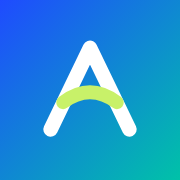
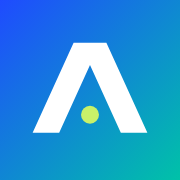
Новый логотип Aweron: знак «Схождение», надпись в контурах
Знак: Λ на пропорциях буквы A шрифта Unbounded, перекладина заменена
точкой-искрой; плитка в градиенте brand → brand-2. Надпись «Aweron»
переведена в контуры из Unbounded 700, точка в A повторяет знак.
Добавлены горизонтальные версии (светлая/тёмная), цветной и моно знак,
favicon с тёмной темой, apple-touch-icon, logo-512 для JSON-LD,
3 альтернативные концепции для сравнения. Встроено в шапку, футер,
privacy и чип схемы; hover-анимация только у логотипа.

Claude-Session: https://claude.ai/code/session_01M5dFgXpyGHs7NWxp8WCykq

Changed region(s): [[0.1667, 0.2222, 0.8333, 0.7778], [0.4722, 0.3611, 0.5278, 0.4167]]

diff --git a/index.html b/index.html
@@ -42,17 +42,7 @@
   <header class="site-header" id="top">
     <div class="container header-inner">
       <a class="logo" href="#top" aria-label="Aweron — на главную">
-        <svg class="logo-mark" width="32" height="32" viewBox="0 0 32 32" aria-hidden="true">
-          <defs>
-            <linearGradient id="lg-logo" x1="0" y1="0" x2="1" y2="1">
-              <stop offset="0" stop-color="#1F4BFF"/><stop offset="1" stop-color="#00C2A8"/>
-            </linearGradient>
-          </defs>
-          <rect width="32" height="32" rx="10" fill="url(#lg-logo)"/>
-          <path d="M9 23 L16 8.5 L23 23" fill="none" stroke="#fff" stroke-width="2.6" stroke-linecap="round" stroke-linejoin="round"/>
-          <path d="M11.2 18.2 Q16 14.6 20.8 18.2" fill="none" stroke="#C8F169" stroke-width="2.4" stroke-linecap="round"/>
-        </svg>
-        <span class="logo-word">Aweron</span>
+        <svg class="logo-svg" viewBox="0 0 207.84 48" width="138.56" height="32" role="img" focusable="false"><title>Aweron</title><defs><linearGradient id="awr-g-h" x1="0" y1="0" x2="48" y2="48" gradientUnits="userSpaceOnUse"><stop offset="0" stop-color="#1F4BFF"/><stop offset="1" stop-color="#00C2A8"/></linearGradient></defs><path d="M14 0H34A14 14 0 0 1 48 14V34A14 14 0 0 1 34 48H14A14 14 0 0 1 0 34V14A14 14 0 0 1 14 0Z" fill="url(#awr-g-h)"/><path d="M8.7 35.4L19.63 11.4H28.37L39.3 35.4H32.22L24 17.34L15.78 35.4Z" fill="#FFFFFF"/><circle class="logo-ping" cx="24" cy="30.6" r="2.4" fill="none" stroke="#C8F169" stroke-width="1.5" opacity="0"/><circle class="logo-spark" cx="24" cy="30.6" r="2.4" fill="#C8F169"/><path d="M81.81 12.75 92.04 35.25H85.41L76.83 15.39H78.63L70.02 35.25H63.39L73.62 12.75ZM115.23 31.8H113.31L118.17 18.12H124.29L117.87 35.25H111.63L106.26 21.03H108.3L102.87 35.25H96.63L90.21 18.12H96.39L101.22 31.8H99.3L104.37 18.12H110.22ZM135.09 35.73Q131.97 35.73 129.52 34.59Q127.08 33.45 125.67 31.39Q124.26 29.34 124.26 26.61Q124.26 23.94 125.61 21.91Q126.96 19.89 129.31 18.75Q131.67 17.61 134.64 17.61Q137.73 17.61 139.91 18.95Q142.08 20.28 143.26 22.71Q144.45 25.14 144.45 28.44H129.21V24.75H141L138.99 26.04Q138.87 24.72 138.33 23.8Q137.79 22.89 136.91 22.41Q136.02 21.93 134.79 21.93Q133.44 21.93 132.48 22.47Q131.52 23.01 130.98 23.95Q130.44 24.9 130.44 26.16Q130.44 27.78 131.18 28.91Q131.91 30.03 133.33 30.63Q134.76 31.23 136.83 31.23Q138.72 31.23 140.59 30.73Q142.47 30.24 144 29.34V33.24Q142.23 34.44 139.97 35.09Q137.7 35.73 135.09 35.73ZM145.86 18.12H152.1L153.12 24.24V35.25H147V23.88ZM161.16 17.85V23.07Q160.26 22.89 159.46 22.81Q158.67 22.74 158.01 22.74Q156.69 22.74 155.58 23.27Q154.47 23.79 153.8 24.99Q153.12 26.19 153.12 28.2L151.95 26.76Q152.19 24.9 152.67 23.27Q153.15 21.63 153.97 20.36Q154.8 19.08 156.03 18.34Q157.26 17.61 159.03 17.61Q159.54 17.61 160.08 17.67Q160.62 17.73 161.16 17.85ZM172.71 35.73Q169.41 35.73 166.95 34.61Q164.49 33.48 163.11 31.43Q161.73 29.37 161.73 26.7Q161.73 23.97 163.11 21.93Q164.49 19.89 166.95 18.75Q169.41 17.61 172.71 17.61Q175.98 17.61 178.45 18.75Q180.93 19.89 182.31 21.93Q183.69 23.97 183.69 26.7Q183.69 29.37 182.31 31.43Q180.93 33.48 178.45 34.61Q175.98 35.73 172.71 35.73ZM172.71 31.2Q174.21 31.2 175.27 30.66Q176.34 30.12 176.91 29.1Q177.48 28.08 177.48 26.7Q177.48 25.26 176.91 24.25Q176.34 23.25 175.27 22.71Q174.21 22.17 172.71 22.17Q171.21 22.17 170.13 22.71Q169.05 23.25 168.48 24.25Q167.91 25.26 167.91 26.67Q167.91 28.08 168.48 29.1Q169.05 30.12 170.13 30.66Q171.21 31.2 172.71 31.2ZM185.04 18.12H191.19L192.3 24.96V35.25H186.18V24.03ZM198.6 17.61Q201.06 17.61 202.8 18.6Q204.54 19.59 205.45 21.39Q206.37 23.19 206.37 25.65V35.25H200.25V26.55Q200.25 24.63 199.27 23.61Q198.3 22.59 196.47 22.59Q195.21 22.59 194.26 23.13Q193.32 23.67 192.81 24.66Q192.3 25.65 192.3 27L190.41 26.01Q190.77 23.28 191.94 21.41Q193.11 19.53 194.82 18.57Q196.53 17.61 198.6 17.61Z" fill="currentColor"/><circle cx="78.06" cy="30.52" r="2.25" fill="#FF6A3D"/></svg>
       </a>
 
       <nav class="main-nav" aria-label="Основная навигация">
@@ -358,7 +348,7 @@
             <div class="flow" aria-label="Схема: заявка с сайта проходит через Aweron и приходит в Telegram или CRM">
               <span class="flow-node"><svg width="20" height="20" viewBox="0 0 24 24" aria-hidden="true"><circle cx="12" cy="12" r="8.5" fill="none" stroke="currentColor" stroke-width="1.9"/><path d="M3.5 12h17M12 3.5c2.5 2.6 2.5 14.4 0 17M12 3.5c-2.5 2.6-2.5 14.4 0 17" fill="none" stroke="currentColor" stroke-width="1.6"/></svg>Сайт</span>
               <span class="flow-link" aria-hidden="true"><span class="flow-runner"><i></i></span></span>
-              <span class="flow-node flow-node--brand"><svg width="20" height="20" viewBox="0 0 32 32" aria-hidden="true"><path d="M9 23 L16 8.5 L23 23" fill="none" stroke="currentColor" stroke-width="3" stroke-linecap="round" stroke-linejoin="round"/><path d="M11.2 18.2 Q16 14.6 20.8 18.2" fill="none" stroke="#C8F169" stroke-width="2.8" stroke-linecap="round"/></svg>Aweron</span>
+              <span class="flow-node flow-node--brand"><svg width="20" height="20" viewBox="0 0 48 48" aria-hidden="true"><path d="M2.33 40.4L17.81 6.4H30.19L45.67 40.4H35.65L24 14.81L12.35 40.4Z" fill="currentColor"/><circle cx="24" cy="33.6" r="3.4" fill="#C8F169"/></svg>Aweron</span>
               <span class="flow-link flow-link--2" aria-hidden="true"><span class="flow-runner"><i></i></span></span>
               <span class="flow-node"><svg width="20" height="20" viewBox="0 0 24 24" aria-hidden="true"><path d="M20.5 4L3.5 11l6 2.2M20.5 4l-3 15.5-8-6.3M20.5 4L9.5 13.2v5.3l3-3" fill="none" stroke="currentColor" stroke-width="1.8" stroke-linecap="round" stroke-linejoin="round"/></svg>Telegram / CRM</span>
             </div>
@@ -608,13 +598,8 @@
   <footer class="site-footer">
     <div class="container footer-grid">
       <div class="footer-brand">
-        <a class="logo" href="#top" aria-label="Aweron — наверх">
-          <svg class="logo-mark" width="32" height="32" viewBox="0 0 32 32" aria-hidden="true">
-            <rect width="32" height="32" rx="10" fill="#1F4BFF"/>
-            <path d="M9 23 L16 8.5 L23 23" fill="none" stroke="#fff" stroke-width="2.6" stroke-linecap="round" stroke-linejoin="round"/>
-            <path d="M11.2 18.2 Q16 14.6 20.8 18.2" fill="none" stroke="#C8F169" stroke-width="2.4" stroke-linecap="round"/>
-          </svg>
-          <span class="logo-word">Aweron</span>
+        <a class="logo" href="#top" aria-label="Aweron — на главную">
+          <svg class="logo-svg" viewBox="0 0 207.84 48" width="138.56" height="32" role="img" focusable="false"><title>Aweron</title><defs><linearGradient id="awr-g-f" x1="0" y1="0" x2="48" y2="48" gradientUnits="userSpaceOnUse"><stop offset="0" stop-color="#1F4BFF"/><stop offset="1" stop-color="#00C2A8"/></linearGradient></defs><path d="M14 0H34A14 14 0 0 1 48 14V34A14 14 0 0 1 34 48H14A14 14 0 0 1 0 34V14A14 14 0 0 1 14 0Z" fill="url(#awr-g-f)"/><path d="M8.7 35.4L19.63 11.4H28.37L39.3 35.4H32.22L24 17.34L15.78 35.4Z" fill="#FFFFFF"/><circle class="logo-ping" cx="24" cy="30.6" r="2.4" fill="none" stroke="#C8F169" stroke-width="1.5" opacity="0"/><circle class="logo-spark" cx="24" cy="30.6" r="2.4" fill="#C8F169"/><path d="M81.81 12.75 92.04 35.25H85.41L76.83 15.39H78.63L70.02 35.25H63.39L73.62 12.75ZM115.23 31.8H113.31L118.17 18.12H124.29L117.87 35.25H111.63L106.26 21.03H108.3L102.87 35.25H96.63L90.21 18.12H96.39L101.22 31.8H99.3L104.37 18.12H110.22ZM135.09 35.73Q131.97 35.73 129.52 34.59Q127.08 33.45 125.67 31.39Q124.26 29.34 124.26 26.61Q124.26 23.94 125.61 21.91Q126.96 19.89 129.31 18.75Q131.67 17.61 134.64 17.61Q137.73 17.61 139.91 18.95Q142.08 20.28 143.26 22.71Q144.45 25.14 144.45 28.44H129.21V24.75H141L138.99 26.04Q138.87 24.72 138.33 23.8Q137.79 22.89 136.91 22.41Q136.02 21.93 134.79 21.93Q133.44 21.93 132.48 22.47Q131.52 23.01 130.98 23.95Q130.44 24.9 130.44 26.16Q130.44 27.78 131.18 28.91Q131.91 30.03 133.33 30.63Q134.76 31.23 136.83 31.23Q138.72 31.23 140.59 30.73Q142.47 30.24 144 29.34V33.24Q142.23 34.44 139.97 35.09Q137.7 35.73 135.09 35.73ZM145.86 18.12H152.1L153.12 24.24V35.25H147V23.88ZM161.16 17.85V23.07Q160.26 22.89 159.46 22.81Q158.67 22.74 158.01 22.74Q156.69 22.74 155.58 23.27Q154.47 23.79 153.8 24.99Q153.12 26.19 153.12 28.2L151.95 26.76Q152.19 24.9 152.67 23.27Q153.15 21.63 153.97 20.36Q154.8 19.08 156.03 18.34Q157.26 17.61 159.03 17.61Q159.54 17.61 160.08 17.67Q160.62 17.73 161.16 17.85ZM172.71 35.73Q169.41 35.73 166.95 34.61Q164.49 33.48 163.11 31.43Q161.73 29.37 161.73 26.7Q161.73 23.97 163.11 21.93Q164.49 19.89 166.95 18.75Q169.41 17.61 172.71 17.61Q175.98 17.61 178.45 18.75Q180.93 19.89 182.31 21.93Q183.69 23.97 183.69 26.7Q183.69 29.37 182.31 31.43Q180.93 33.48 178.45 34.61Q175.98 35.73 172.71 35.73ZM172.71 31.2Q174.21 31.2 175.27 30.66Q176.34 30.12 176.91 29.1Q177.48 28.08 177.48 26.7Q177.48 25.26 176.91 24.25Q176.34 23.25 175.27 22.71Q174.21 22.17 172.71 22.17Q171.21 22.17 170.13 22.71Q169.05 23.25 168.48 24.25Q167.91 25.26 167.91 26.67Q167.91 28.08 168.48 29.1Q169.05 30.12 170.13 30.66Q171.21 31.2 172.71 31.2ZM185.04 18.12H191.19L192.3 24.96V35.25H186.18V24.03ZM198.6 17.61Q201.06 17.61 202.8 18.6Q204.54 19.59 205.45 21.39Q206.37 23.19 206.37 25.65V35.25H200.25V26.55Q200.25 24.63 199.27 23.61Q198.3 22.59 196.47 22.59Q195.21 22.59 194.26 23.13Q193.32 23.67 192.81 24.66Q192.3 25.65 192.3 27L190.41 26.01Q190.77 23.28 191.94 21.41Q193.11 19.53 194.82 18.57Q196.53 17.61 198.6 17.61Z" fill="currentColor"/><circle cx="78.06" cy="30.52" r="2.25" fill="#C8F169"/></svg>
         </a>
         <p>ИИ-агенты и автоматизация для бизнеса</p>
         <p class="footer-region">Сочи и Краснодарский край · удалённо по всей России</p>

diff --git a/privacy.html b/privacy.html
@@ -34,12 +34,7 @@
 <body>
   <header class="container simple-header">
     <a class="logo" href="index.html" aria-label="Aweron — на главную">
-      <svg class="logo-mark" width="32" height="32" viewBox="0 0 32 32" aria-hidden="true">
-        <rect width="32" height="32" rx="10" fill="#1F4BFF"/>
-        <path d="M9 23 L16 8.5 L23 23" fill="none" stroke="#fff" stroke-width="2.6" stroke-linecap="round" stroke-linejoin="round"/>
-        <path d="M11.2 18.2 Q16 14.6 20.8 18.2" fill="none" stroke="#C8F169" stroke-width="2.4" stroke-linecap="round"/>
-      </svg>
-      <span class="logo-word">Aweron</span>
+      <svg class="logo-svg" viewBox="0 0 207.84 48" width="138.56" height="32" role="img" focusable="false"><title>Aweron</title><defs><linearGradient id="awr-g-p" x1="0" y1="0" x2="48" y2="48" gradientUnits="userSpaceOnUse"><stop offset="0" stop-color="#1F4BFF"/><stop offset="1" stop-color="#00C2A8"/></linearGradient></defs><path d="M14 0H34A14 14 0 0 1 48 14V34A14 14 0 0 1 34 48H14A14 14 0 0 1 0 34V14A14 14 0 0 1 14 0Z" fill="url(#awr-g-p)"/><path d="M8.7 35.4L19.63 11.4H28.37L39.3 35.4H32.22L24 17.34L15.78 35.4Z" fill="#FFFFFF"/><circle class="logo-ping" cx="24" cy="30.6" r="2.4" fill="none" stroke="#C8F169" stroke-width="1.5" opacity="0"/><circle class="logo-spark" cx="24" cy="30.6" r="2.4" fill="#C8F169"/><path d="M81.81 12.75 92.04 35.25H85.41L76.83 15.39H78.63L70.02 35.25H63.39L73.62 12.75ZM115.23 31.8H113.31L118.17 18.12H124.29L117.87 35.25H111.63L106.26 21.03H108.3L102.87 35.25H96.63L90.21 18.12H96.39L101.22 31.8H99.3L104.37 18.12H110.22ZM135.09 35.73Q131.97 35.73 129.52 34.59Q127.08 33.45 125.67 31.39Q124.26 29.34 124.26 26.61Q124.26 23.94 125.61 21.91Q126.96 19.89 129.31 18.75Q131.67 17.61 134.64 17.61Q137.73 17.61 139.91 18.95Q142.08 20.28 143.26 22.71Q144.45 25.14 144.45 28.44H129.21V24.75H141L138.99 26.04Q138.87 24.72 138.33 23.8Q137.79 22.89 136.91 22.41Q136.02 21.93 134.79 21.93Q133.44 21.93 132.48 22.47Q131.52 23.01 130.98 23.95Q130.44 24.9 130.44 26.16Q130.44 27.78 131.18 28.91Q131.91 30.03 133.33 30.63Q134.76 31.23 136.83 31.23Q138.72 31.23 140.59 30.73Q142.47 30.24 144 29.34V33.24Q142.23 34.44 139.97 35.09Q137.7 35.73 135.09 35.73ZM145.86 18.12H152.1L153.12 24.24V35.25H147V23.88ZM161.16 17.85V23.07Q160.26 22.89 159.46 22.81Q158.67 22.74 158.01 22.74Q156.69 22.74 155.58 23.27Q154.47 23.79 153.8 24.99Q153.12 26.19 153.12 28.2L151.95 26.76Q152.19 24.9 152.67 23.27Q153.15 21.63 153.97 20.36Q154.8 19.08 156.03 18.34Q157.26 17.61 159.03 17.61Q159.54 17.61 160.08 17.67Q160.62 17.73 161.16 17.85ZM172.71 35.73Q169.41 35.73 166.95 34.61Q164.49 33.48 163.11 31.43Q161.73 29.37 161.73 26.7Q161.73 23.97 163.11 21.93Q164.49 19.89 166.95 18.75Q169.41 17.61 172.71 17.61Q175.98 17.61 178.45 18.75Q180.93 19.89 182.31 21.93Q183.69 23.97 183.69 26.7Q183.69 29.37 182.31 31.43Q180.93 33.48 178.45 34.61Q175.98 35.73 172.71 35.73ZM172.71 31.2Q174.21 31.2 175.27 30.66Q176.34 30.12 176.91 29.1Q177.48 28.08 177.48 26.7Q177.48 25.26 176.91 24.25Q176.34 23.25 175.27 22.71Q174.21 22.17 172.71 22.17Q171.21 22.17 170.13 22.71Q169.05 23.25 168.48 24.25Q167.91 25.26 167.91 26.67Q167.91 28.08 168.48 29.1Q169.05 30.12 170.13 30.66Q171.21 31.2 172.71 31.2ZM185.04 18.12H191.19L192.3 24.96V35.25H186.18V24.03ZM198.6 17.61Q201.06 17.61 202.8 18.6Q204.54 19.59 205.45 21.39Q206.37 23.19 206.37 25.65V35.25H200.25V26.55Q200.25 24.63 199.27 23.61Q198.3 22.59 196.47 22.59Q195.21 22.59 194.26 23.13Q193.32 23.67 192.81 24.66Q192.3 25.65 192.3 27L190.41 26.01Q190.77 23.28 191.94 21.41Q193.11 19.53 194.82 18.57Q196.53 17.61 198.6 17.61Z" fill="currentColor"/><circle cx="78.06" cy="30.52" r="2.25" fill="#FF6A3D"/></svg>
     </a>
   </header>
 

diff --git a/assets/css/style.css b/assets/css/style.css
@@ -860,3 +860,20 @@ body.menu-open .site-header { background: transparent; border-bottom-color: tran
   .rotator-word:not(.active) { display: none; }
   .form-status.is-success .status-check circle, .form-status.is-success .status-check path { stroke-dashoffset: 0; animation: none; }
 }
+
+/* === Logo === */
+.logo .logo-svg { display: block; height: 32px; width: auto; flex: none; overflow: visible; }
+.logo .logo-spark, .logo .logo-ping { transform-box: fill-box; transform-origin: center; }
+@media (hover: hover) and (prefers-reduced-motion: no-preference) {
+  .site-header .logo:hover .logo-spark, .site-header .logo:focus-visible .logo-spark { animation: logo-spark .45s var(--ease); }
+  .site-header .logo:hover .logo-ping, .site-header .logo:focus-visible .logo-ping { animation: logo-ping .5s var(--ease); }
+}
+@keyframes logo-spark {
+  0% { transform: scale(1); }
+  35% { transform: scale(1.45); }
+  100% { transform: scale(1); }
+}
+@keyframes logo-ping {
+  0% { opacity: .9; transform: scale(1); }
+  100% { opacity: 0; transform: scale(2.6); }
+}

diff --git a/assets/js/main.js b/assets/js/main.js
@@ -500,7 +500,7 @@
       "description": "Внедрение ИИ-администраторов, чат-ботов, автоматизации заявок и разработка сайтов для малого и среднего бизнеса.",
       "url": site + "/",
       "image": site + "/og-image.png",
-      "logo": site + "/favicon.svg",
+      "logo": site + "/assets/img/logo/logo-512.png",
       "areaServed": [
         { "@type": "City", "name": "Сочи" },
         { "@type": "AdministrativeArea", "name": "Краснодарский край" },
